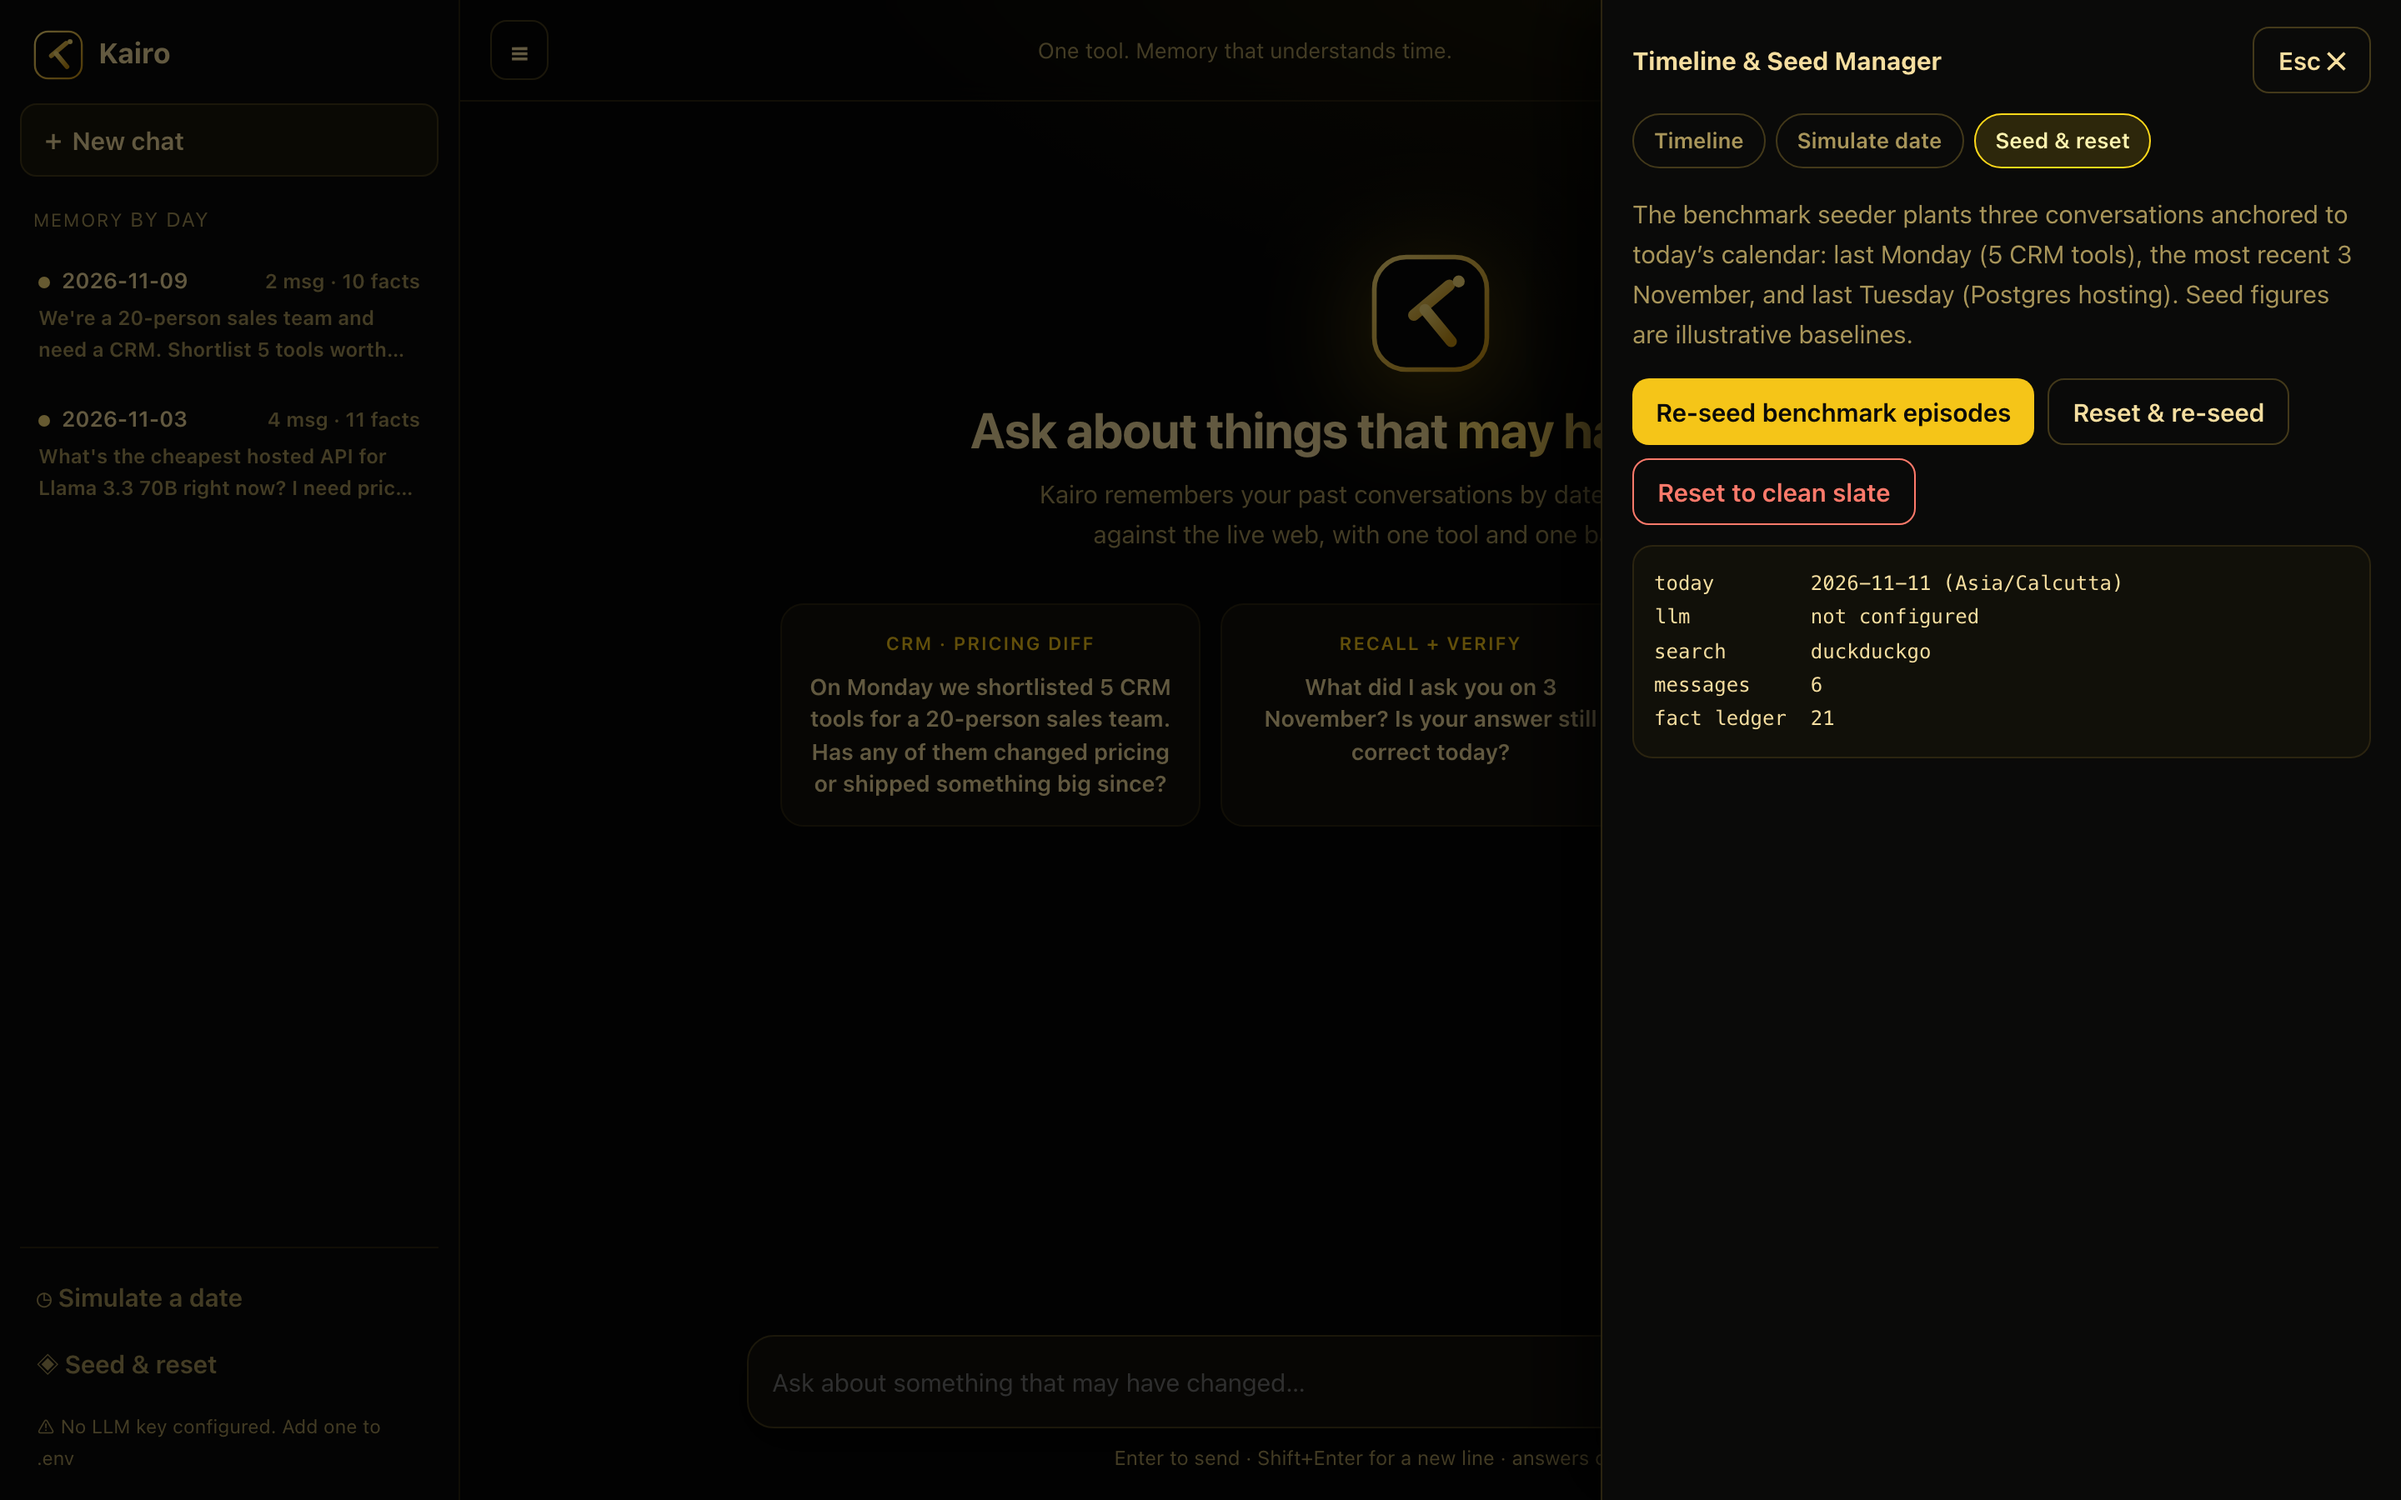
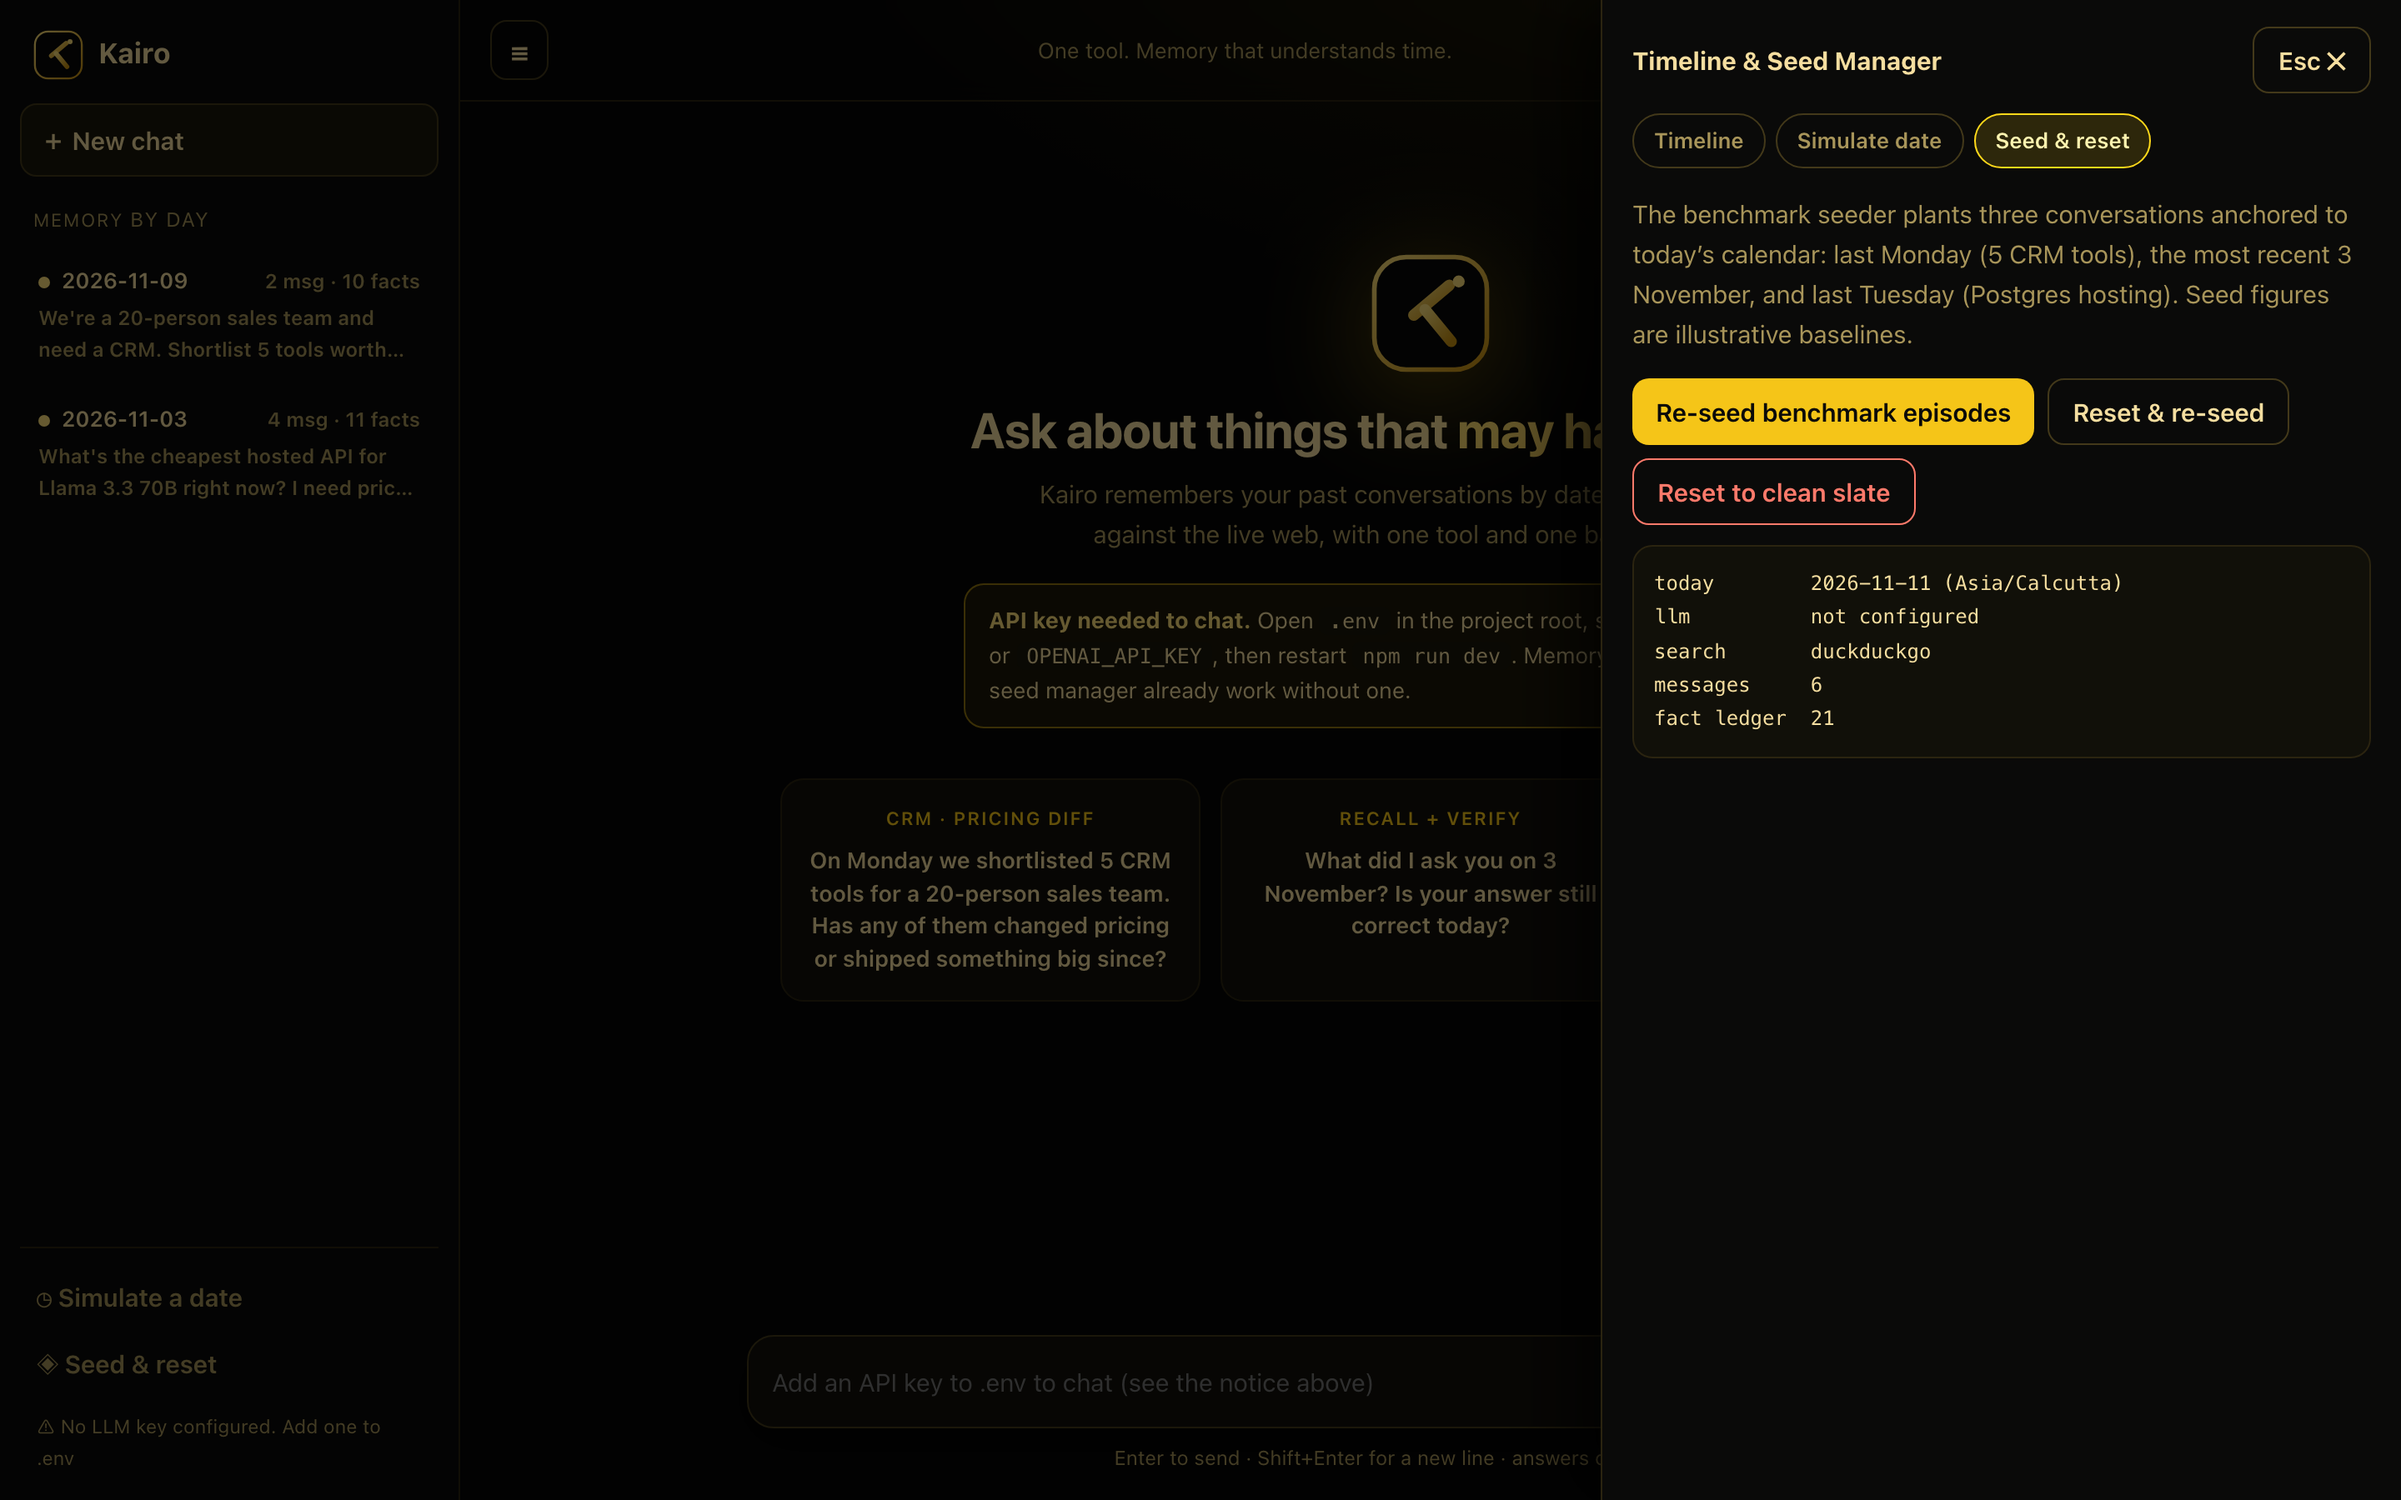
Hand-sketched architecture diagram, API-key callouts, and in-app key notice

Changed region(s): [[0.3438, 0.4044, 0.6562, 0.6533], [0.3438, 0.9022, 0.5625, 0.9333]]

diff --git a/src/public/app.js b/src/public/app.js
@@ -212,7 +212,7 @@ async function loadHistory() {
 
 $("#newChat").addEventListener("click", () => {
   sessionId = crypto.randomUUID(); store.set("kairo.session", sessionId);
-  renderEmpty(); input.focus();
+  renderEmpty(); refreshStatus(); input.focus();
 });
 $("#toggleSide").addEventListener("click", () => $(".app").classList.toggle("collapsed"));
 
@@ -297,6 +297,16 @@ async function refreshStatus() {
   const s = await (await fetch("/api/status")).json();
   $("#engine").textContent = s.llm ? `${s.llm.provider} · ${s.llm.model}\nsearch: ${s.search}` : "⚠ No LLM key configured. Add one to .env";
   $("#engine").style.whiteSpace = "pre-line";
+  if (!s.llm) {
+    input.placeholder = "Add an API key to .env to chat (see the notice above)";
+    const hero = $("#empty");
+    if (hero && !hero.querySelector(".keynotice")) {
+      const n = document.createElement("div");
+      n.className = "keynotice";
+      n.innerHTML = `<b>API key needed to chat.</b> Open <code>.env</code> in the project root, set <code>ANTHROPIC_API_KEY</code> or <code>OPENAI_API_KEY</code>, then restart <code>npm run dev</code>. Memory, the timeline and the seed manager already work without one.`;
+      hero.querySelector("p").after(n);
+    }
+  }
   $("#statusBox").textContent = `today        ${s.today} (${s.timezone})\nllm          ${s.llm ? `${s.llm.provider}/${s.llm.model}` : "not configured"}\nsearch       ${s.search}\nmessages     ${s.messages}\nfact ledger  ${s.facts}`;
 }
 async function post(url, body) {

diff --git a/src/public/styles.css b/src/public/styles.css
@@ -63,6 +63,10 @@ button.icon { padding: 5px 10px; }
 .card .tag { font-size: 11px; text-transform: uppercase; letter-spacing: .08em; color: var(--accent); font-weight: 600; }
 .card .q { font-size: 13.5px; line-height: 1.45; color: var(--text); }
 
+.keynotice { margin: 18px auto 0; max-width: 560px; text-align: left; font-size: 13.5px; line-height: 1.55; border: 1px solid color-mix(in srgb, var(--accent) 55%, transparent); background: color-mix(in srgb, var(--accent) 9%, transparent); border-radius: 12px; padding: 11px 14px; color: var(--text); }
+.keynotice b { color: var(--accent2); }
+.keynotice code { font-family: var(--mono); font-size: 12.5px; background: var(--panel2); padding: 1px 6px; border-radius: 5px; }
+
 /* ── Messages ── */
 .msg { max-width: 820px; margin: 0 auto 26px; }
 .msg.user { display: flex; flex-direction: column; align-items: flex-end; }

diff --git a/README.md b/README.md
@@ -73,9 +73,15 @@ The full reasoning, rejected alternatives and diagrams are in **[DESIGN.md](DESI
 
 ```bash
 npm install
-cp .env.example .env     # add ONE LLM key (Anthropic or OpenAI)
+cp .env.example .env     # then open .env and paste your API key (see below)
 npm run dev              # → http://localhost:3000
 ```
+
+> [!IMPORTANT]
+> **You need one LLM API key to chat with Kairo.** Open the `.env` file in the project root and set **either**
+> `ANTHROPIC_API_KEY=sk-ant-...` **or** `OPENAI_API_KEY=sk-...`, then restart `npm run dev`.
+> Without a key the app still starts (you can browse memory, the timeline and the seed manager), but sending a message shows
+> *"No LLM key configured"*. A search key is **optional**; see [Configuration](#configuration).
 
 The server, the API (SSE streaming) and the UI run in a single process on one port. There is no build step.
 
@@ -83,19 +89,19 @@ The server, the API (SSE streaming) and the UI run in a single process on one po
 
 ## Configuration
 
-Only one LLM key is required. Blank values and `...` placeholders are ignored.
+Put every value in the **`.env`** file in the project root (copy it from `.env.example`). Blank values and `...` placeholders are ignored.
 
-| Variable | Purpose | Default |
-|---|---|---|
-| `ANTHROPIC_API_KEY` | Use Anthropic (checked first) | none |
-| `OPENAI_API_KEY` | Use OpenAI when there is no Anthropic key | none |
-| `LLM_MODEL` | Main model override | `claude-sonnet-4-5` / `gpt-4o` |
-| `LLM_FAST_MODEL` | Cheap model for background fact extraction | `claude-haiku-4-5` / `gpt-4o-mini` |
-| `TAVILY_API_KEY` | Search provider (recommended) | none |
-| `SERPER_API_KEY` | Search provider | none |
-| `EXA_API_KEY` | Search provider | none |
-| `KAIRO_PREFETCH` | `off` disables speculative prefetch (for latency A/B tests) | `on` |
-| `PORT` | HTTP port | `3000` |
+| Variable | Needed? | Purpose | Default |
+|---|---|---|---|
+| `ANTHROPIC_API_KEY` | **One of these two is required** | Use Anthropic (checked first) | none |
+| `OPENAI_API_KEY` | **One of these two is required** | Use OpenAI when there is no Anthropic key | none |
+| `LLM_MODEL` | optional | Main model override | `claude-sonnet-4-5` / `gpt-4o` |
+| `LLM_FAST_MODEL` | optional | Cheap model for background fact extraction | `claude-haiku-4-5` / `gpt-4o-mini` |
+| `TAVILY_API_KEY` | optional (recommended) | Search provider | none |
+| `SERPER_API_KEY` | optional | Search provider | none |
+| `EXA_API_KEY` | optional | Search provider | none |
+| `KAIRO_PREFETCH` | optional | `off` disables speculative prefetch (for latency A/B tests) | `on` |
+| `PORT` | optional | HTTP port | `3000` |
 
 **Search provider order:** Tavily, then Serper, then Exa, whichever key is present. With no search key, Kairo uses a free DuckDuckGo/Bing chain plus Jina Reader for JavaScript-heavy pages. That is fine for demos; a real key is more reliable because free endpoints can rate-limit or show CAPTCHAs.
 
@@ -108,6 +114,9 @@ On first boot an empty database is seeded with three conversations anchored to *
 | Shortlist of 5 CRM tools for a 20-person sales team | most recent Monday |
 | Hosted Llama 3.3 70B pricing question | most recent 3 November |
 | Postgres hosting comparison (Supabase, Neon, RDS, Render, Railway) | last Tuesday |
+
+> [!NOTE]
+> Sending these prompts requires the LLM key from [Quick start](#quick-start). Seeding and the timeline work without one.
 
 Click a suggestion card in the UI, or paste:
 
@@ -122,7 +131,7 @@ Click a suggestion card in the UI, or paste:
 
 ## How it works
 
-<p align="center"><img src="docs/architecture.svg" alt="Kairo architecture" width="100%"></p>
+<p align="center"><img src="docs/architecture-sketch.png" alt="Hand-sketched Kairo architecture: hydrate memory, prefetch the live web, LLM with one tool, async fact ledger" width="100%"></p>
 
 1. **Hydrate.** Dates in your message are resolved to windows, and matching past turns plus their stored facts are injected into the prompt as `<episodic_memory>`. If nothing matches, the model is told which dates *do* have history.
 2. **Prefetch** (verification questions only). When memory already names the entities, the runtime runs the batched search before the model starts and gives the model a completed tool result.
@@ -135,10 +144,10 @@ Details, decisions and rejected alternatives: [DESIGN.md](DESIGN.md).
 
 | Endpoint | Description |
 |---|---|
-| `POST /api/chat` | `{ message, sessionId?, asOf? }` → SSE events: `status`, `delta`, `sources`, `done`, `error` |
+| `POST /api/chat` | **Needs the LLM key.** `{ message, sessionId?, asOf? }` → SSE events: `status`, `delta`, `sources`, `done`, `error` |
 | `GET /api/status` | Provider, model, counts, today's date |
 | `GET /api/timeline` · `GET /api/timeline/:date` | Stored days; messages and facts for one day |
-| `POST /api/debug/context` | `{ message, asOf? }` → exactly what memory would be injected for that prompt |
+| `POST /api/debug/context` | No key needed. `{ message, asOf? }` → exactly what memory would be injected for that prompt |
 | `POST /api/seed` · `POST /api/reset` | Re-seed benchmark episodes · reset (`{ "seed": true }` to re-seed) |
 
 ## Project structure
@@ -175,12 +184,13 @@ docs/                          Logo, architecture diagrams and screenshots
 | `npm run dev` | Start with auto-reload (`tsx watch`) |
 | `npm start` | Start without watching |
 | `npm run typecheck` | `tsc --noEmit` (strict) |
-| `npm test` | Run the test suite with a scripted LLM, so it needs no keys |
+| `npm test` | Run the test suite with a scripted LLM, so it needs **no API keys** |
 
 The tests cover date resolution across several "today" values, recall for all three benchmark prompts, the one-tool guarantee, parallel search with partial failures, ranking, HTML-to-Markdown, prefetch planning and fallbacks, and the time-travel round trip.
 
 ## Limitations
 
+- Chatting needs an Anthropic or OpenAI key in `.env`; everything else (memory, timeline, seeding, tests) works without one.
 - Tests verify the plumbing, not the model's answer quality.
 - Time travel backdates **messages**, not the web: live results always reflect the real present.
 - Data lives in `./data/kairo.db`. Delete the folder, or use the reset button, to start fresh.

diff --git a/DESIGN.md b/DESIGN.md
@@ -10,7 +10,7 @@
 
 </div>
 
-<p align="center"><img src="docs/architecture.svg" alt="Kairo architecture: pre-flight hydrator, agent loop with one web_search tool, async fact extractor" width="100%"></p>
+<p align="center"><img src="docs/architecture-sketch.png" alt="Hand-sketched Kairo architecture: hydrate memory, prefetch the live web, LLM with one tool, async fact ledger" width="100%"></p>
 
 > **The one-minute version.** The challenge prompts ("On Monday we shortlisted 5 CRM tools… anything changed since?") are not searches. They are **state diffs**: *what I told you then* vs *what is true now*. Kairo remembers its past claims in SQLite, resolves "Monday / last Tuesday / 3 November" with date math, hands that memory to the model **before** it starts, and gives it a single batched `web_search` to check the present.
 
@@ -248,6 +248,7 @@ The UI shows live "status pills" (resolved dates, recalled messages, parallel se
 <details>
 <summary><b>Evaluator tooling and verification</b></summary>
 
+- **Running it:** `npm install`, copy `.env.example` to `.env`, put **one LLM key** in it (`ANTHROPIC_API_KEY` or `OPENAI_API_KEY`), then `npm run dev`. A search key is optional. Without an LLM key the app starts but cannot answer; memory, timeline and tests still work.
 - **Benchmark seeder:** on first boot, plants three conversations anchored to *today's* calendar (last Monday: 5 CRM tools · most recent 3 November: hosted-LLM pricing · last Tuesday: Postgres hosting) with fact snapshots, so the challenge prompts work on any date. Prices are illustrative baselines for the "then" side.
 - **Timeline & Seed Manager** (`Cmd/Ctrl+K`): browse stored days and facts, simulate sending a message *as of* a past date, re-seed, reset. `POST /api/debug/context` prints exactly what memory would be injected for a prompt.
 - **Tests (33, no API key needed):** prefetch planning and fallbacks (named vendor, pure recall, empty/failed search);  resolver across several "today" values including Monday/Tuesday/Wednesday edge cases; the three benchmark prompts recall the right episode; same-date collision; FTS safety; one-tool guarantee; unknown-tool rejection; parallel search with partial failure; ranking; HTML → Markdown; time-travel round trip. They use a scripted LLM, so they verify the plumbing, not model quality.
